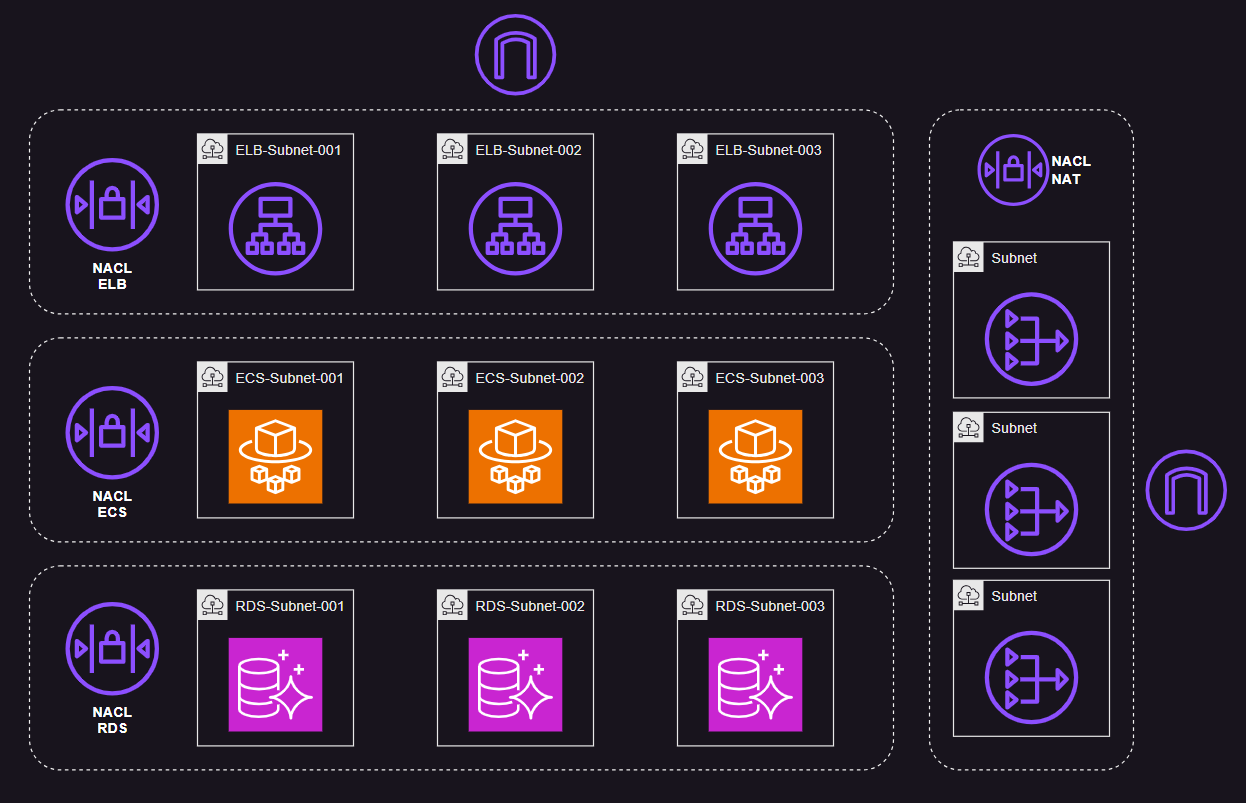
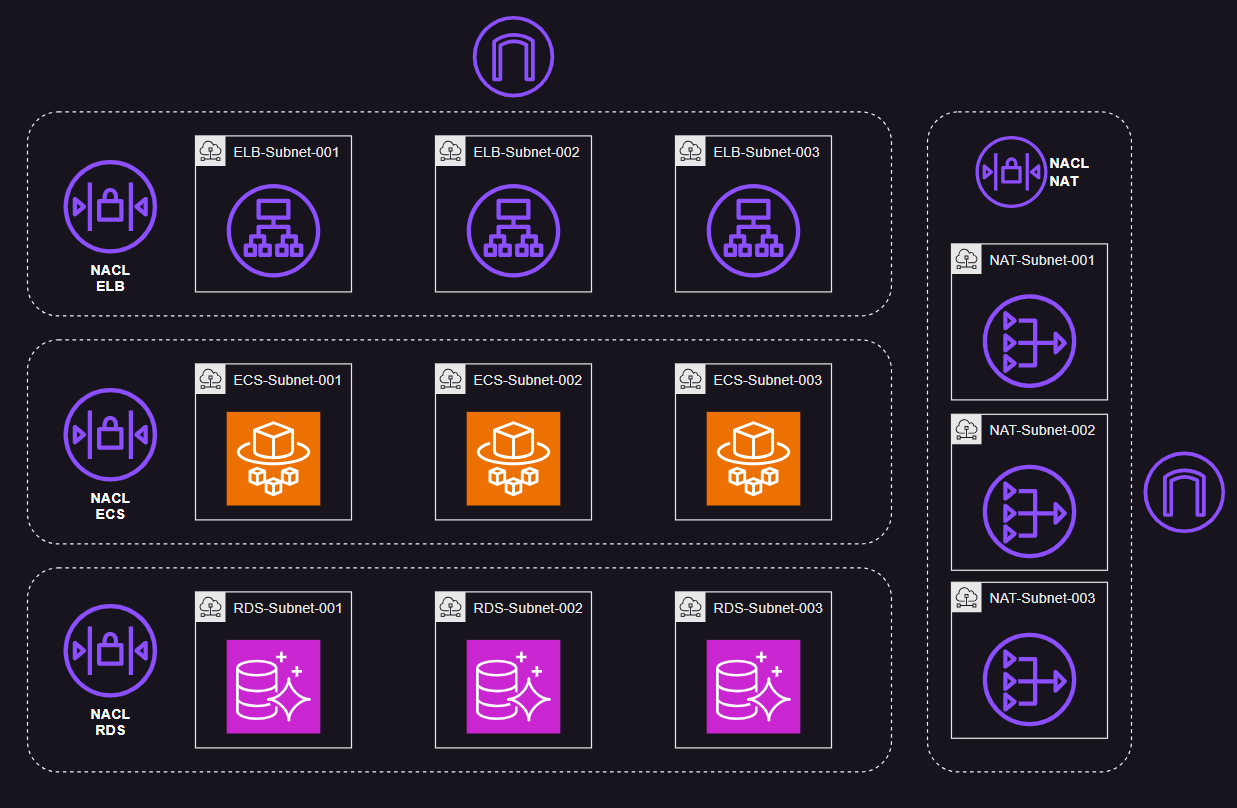
readme

diff --git a/README.md b/README.md
@@ -1,8 +1,49 @@
-# aws-ecs-nacl
+# AWS VPC Network ACL
+
+Multi-tiered architecture with AWS Network ACL.
+
+<img src=".assets/nacl.png" />
+
+## Cloud
+
+Apply the infrastructure:
+
+```sh
+terraform init
+terraform apply -auto-approve
+```
+
+Once created, deploy the application:
+
+```sh
+# from the app dir
+bash ecrBuildPush.sh
+```
+
+The application should be available. Test it hitting the ELB endpoints.
 
 
-Local development:
+## Local
+
+For local development:
 
 ```sh
 docker run --name mysql-local -p "3306:3306" -e MYSQL_ROOT_HOST=% -e MYSQL_ROOT_PASSWORD=p4ssw0rd -d mysql:latest
+```
+
+Running the application:
+
+```
+go get
+go run .
+```
+
+---
+
+### Clean-up
+
+Destroy the resources:
+
+```sh
+terraform destroy -auto-approve
 ```
